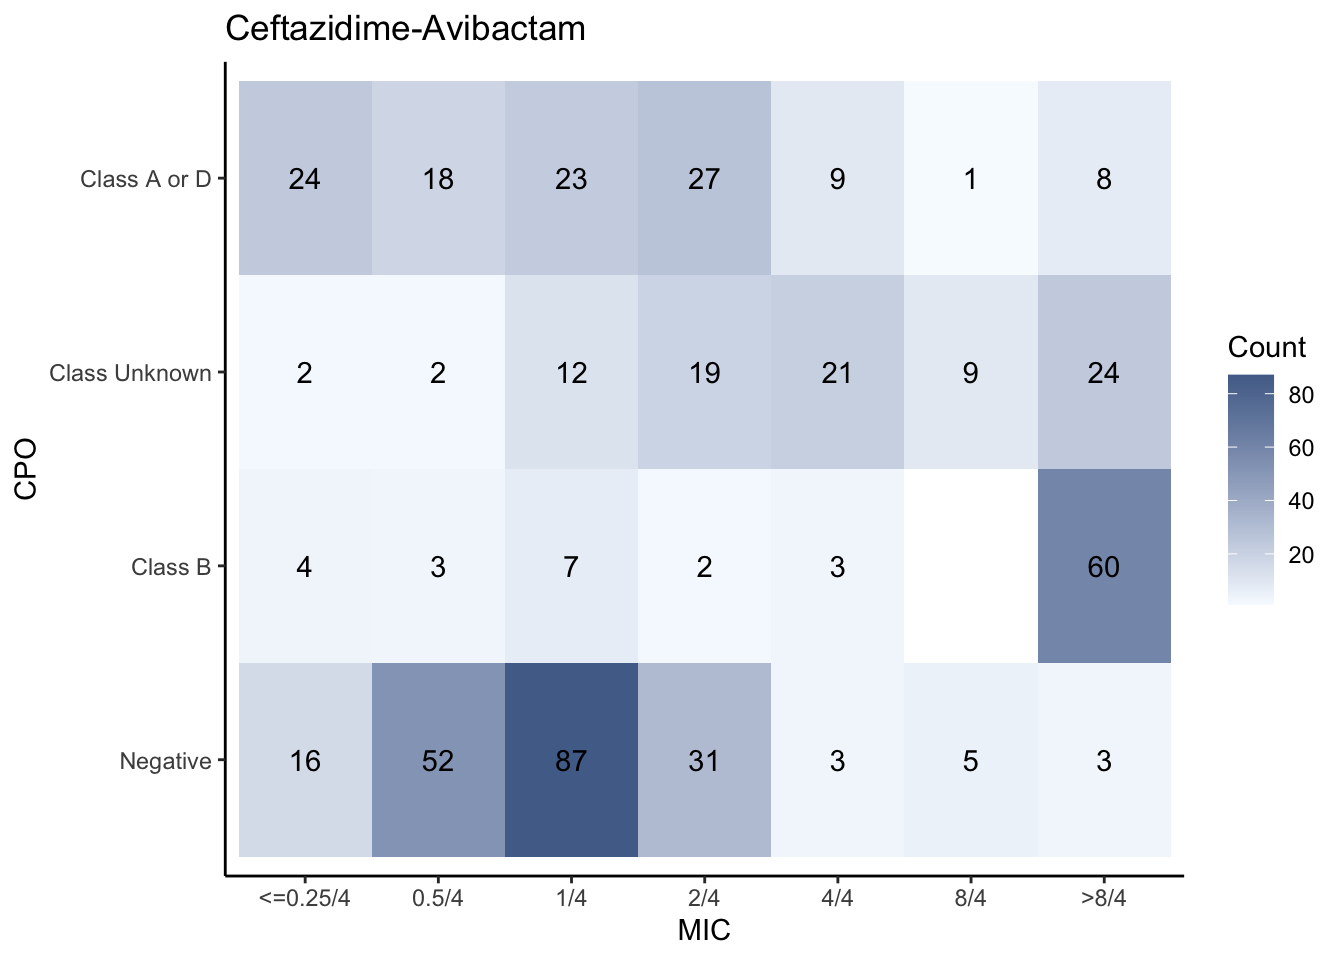
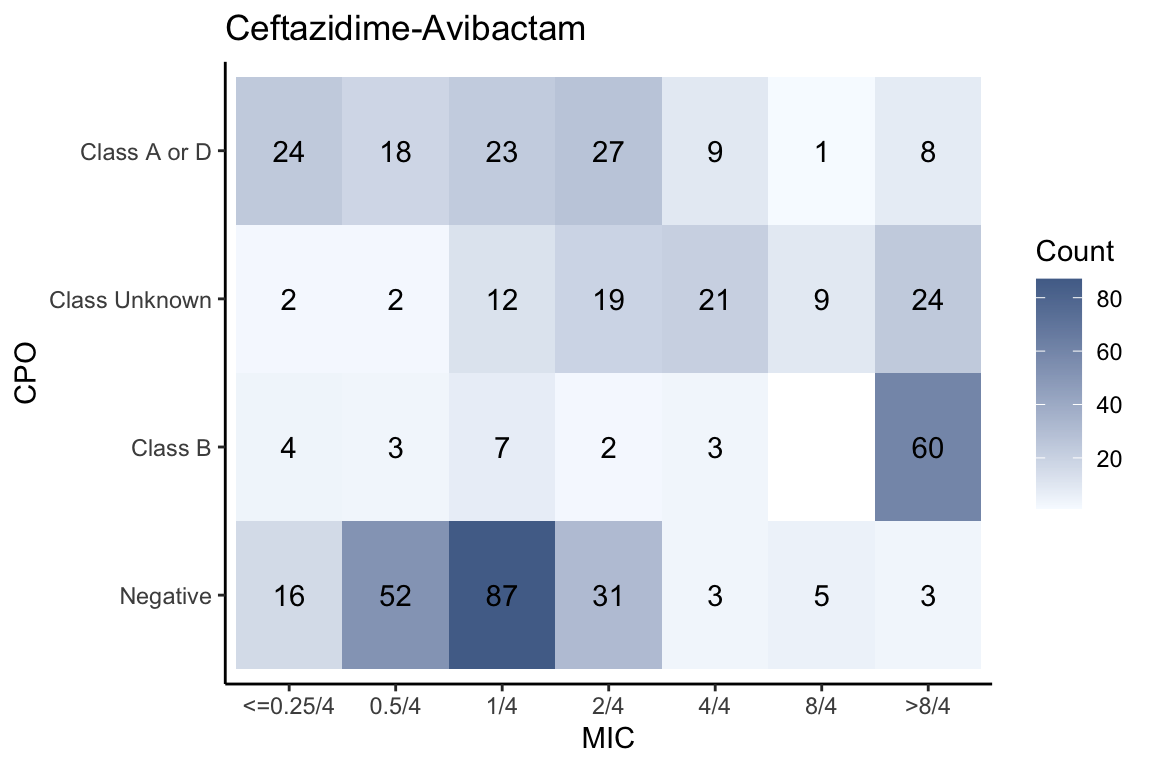
size

diff --git a/carbapenemase_comp.html b/carbapenemase_comp.html
@@ -732,7 +732,7 @@ using the `.groups` argument.</code></pre>
 <div class="cell-output-display">
 <div>
 <figure class="figure">
-<p><img src="carbapenemase_comp_files/figure-html/unnamed-chunk-30-1.png" class="img-fluid figure-img" width="672"></p>
+<p><img src="carbapenemase_comp_files/figure-html/unnamed-chunk-30-1.png" class="img-fluid figure-img" width="576"></p>
 </figure>
 </div>
 </div>
@@ -933,7 +933,7 @@ using the `.groups` argument.</code></pre>
 <div class="cell-output-display">
 <div>
 <figure class="figure">
-<p><img src="carbapenemase_comp_files/figure-html/unnamed-chunk-64-1.png" class="img-fluid figure-img" width="672"></p>
+<p><img src="carbapenemase_comp_files/figure-html/unnamed-chunk-64-1.png" class="img-fluid figure-img" width="576"></p>
 </figure>
 </div>
 </div>
@@ -1425,28 +1425,28 @@ using the `.groups` argument.</code></pre>
 <div class="cell-output-display">
 <div>
 <figure class="figure">
-<p><img src="carbapenemase_comp_files/figure-html/unnamed-chunk-100-1.png" class="img-fluid figure-img" width="672"></p>
+<p><img src="carbapenemase_comp_files/figure-html/unnamed-chunk-100-1.png" class="img-fluid figure-img" width="576"></p>
 </figure>
 </div>
 </div>
 <div class="cell-output-display">
 <div>
 <figure class="figure">
-<p><img src="carbapenemase_comp_files/figure-html/unnamed-chunk-100-2.png" class="img-fluid figure-img" width="672"></p>
+<p><img src="carbapenemase_comp_files/figure-html/unnamed-chunk-100-2.png" class="img-fluid figure-img" width="576"></p>
 </figure>
 </div>
 </div>
 <div class="cell-output-display">
 <div>
 <figure class="figure">
-<p><img src="carbapenemase_comp_files/figure-html/unnamed-chunk-100-3.png" class="img-fluid figure-img" width="672"></p>
+<p><img src="carbapenemase_comp_files/figure-html/unnamed-chunk-100-3.png" class="img-fluid figure-img" width="576"></p>
 </figure>
 </div>
 </div>
 <div class="cell-output-display">
 <div>
 <figure class="figure">
-<p><img src="carbapenemase_comp_files/figure-html/unnamed-chunk-100-4.png" class="img-fluid figure-img" width="672"></p>
+<p><img src="carbapenemase_comp_files/figure-html/unnamed-chunk-100-4.png" class="img-fluid figure-img" width="576"></p>
 </figure>
 </div>
 </div>
@@ -1591,28 +1591,28 @@ using the `.groups` argument.</code></pre>
 <div class="cell-output-display">
 <div>
 <figure class="figure">
-<p><img src="carbapenemase_comp_files/figure-html/unnamed-chunk-110-1.png" class="img-fluid figure-img" width="672"></p>
+<p><img src="carbapenemase_comp_files/figure-html/unnamed-chunk-110-1.png" class="img-fluid figure-img" width="576"></p>
 </figure>
 </div>
 </div>
 <div class="cell-output-display">
 <div>
 <figure class="figure">
-<p><img src="carbapenemase_comp_files/figure-html/unnamed-chunk-110-2.png" class="img-fluid figure-img" width="672"></p>
+<p><img src="carbapenemase_comp_files/figure-html/unnamed-chunk-110-2.png" class="img-fluid figure-img" width="576"></p>
 </figure>
 </div>
 </div>
 <div class="cell-output-display">
 <div>
 <figure class="figure">
-<p><img src="carbapenemase_comp_files/figure-html/unnamed-chunk-110-3.png" class="img-fluid figure-img" width="672"></p>
+<p><img src="carbapenemase_comp_files/figure-html/unnamed-chunk-110-3.png" class="img-fluid figure-img" width="576"></p>
 </figure>
 </div>
 </div>
 <div class="cell-output-display">
 <div>
 <figure class="figure">
-<p><img src="carbapenemase_comp_files/figure-html/unnamed-chunk-110-4.png" class="img-fluid figure-img" width="672"></p>
+<p><img src="carbapenemase_comp_files/figure-html/unnamed-chunk-110-4.png" class="img-fluid figure-img" width="576"></p>
 </figure>
 </div>
 </div>
@@ -1648,7 +1648,7 @@ using the `.groups` argument.</code></pre>
 <div class="cell-output-display">
 <div>
 <figure class="figure">
-<p><img src="carbapenemase_comp_files/figure-html/unnamed-chunk-114-1.png" class="img-fluid figure-img" width="672"></p>
+<p><img src="carbapenemase_comp_files/figure-html/unnamed-chunk-114-1.png" class="img-fluid figure-img" width="576"></p>
 </figure>
 </div>
 </div>
@@ -1791,7 +1791,7 @@ using the `.groups` argument.</code></pre>
 <div class="cell-output-display">
 <div>
 <figure class="figure">
-<p><img src="carbapenemase_comp_files/figure-html/unnamed-chunk-138-1.png" class="img-fluid figure-img" width="672"></p>
+<p><img src="carbapenemase_comp_files/figure-html/unnamed-chunk-138-1.png" class="img-fluid figure-img" width="576"></p>
 </figure>
 </div>
 </div>
